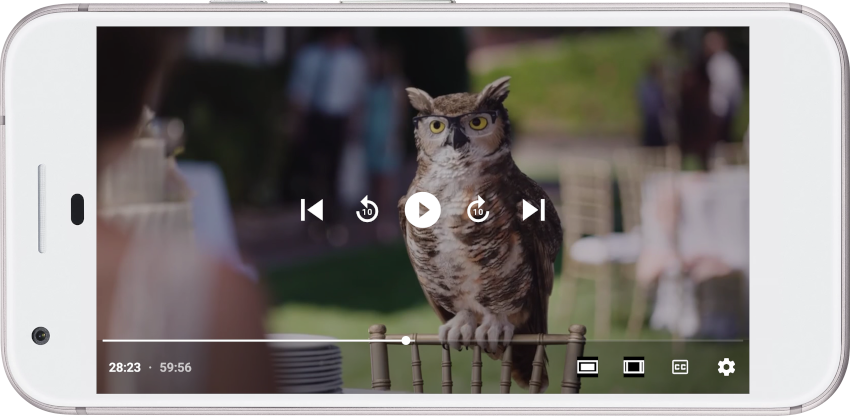
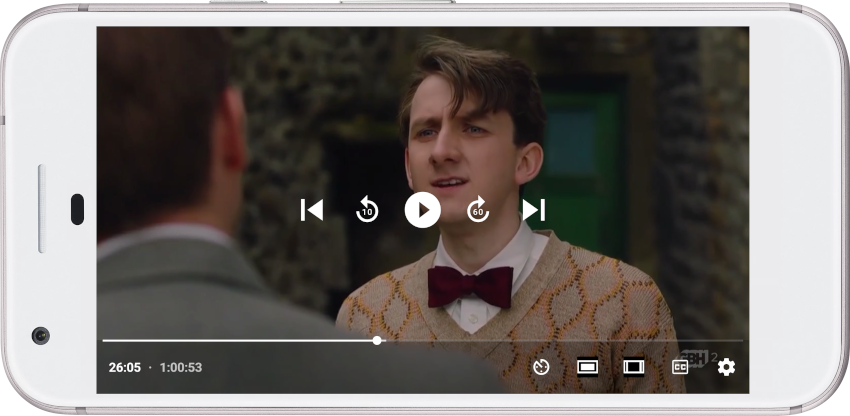
Update documentation.

diff --git a/README.md b/README.md
@@ -39,11 +39,11 @@ Leanfront can be installed from the [Google play store](https://play.google.com/
 ![](ScreenShots/Main_horz.png)
 
 - The main screen shows a scrolling list for the selected recording group or All. One icon is shown per series.
-- Select a group name or All from the menu obtained by tapping the &#8942; icon at the top right hand of the screen to see the [Series Screen](#series-screen).
+- Select a group name or All from the menu obtained by tapping the three dots **&#8942;** icon at the top right hand of the screen to see the [Series Screen](#series-screen).
 
 <details><summary>More details</summary>
 
-- The LiveTV group shows recordings already made from Live TV. This app does not support watching Live TV.
+- The Live TV group shows recordings already made or busy recording from Live TV. You can watch them but you cannot initiate Live TV from the app.
 - If you have Videos in the Video storage group on the MythTV backend, select "Videos" from the menu of recording groups to see the [Videos Screen](#videos-screen)
 - At the bottom you can select the Settings page or the Upcoming page.
 - In landscape mode, tap the menu icon at top left to get to the Settings or Upcoming page.
@@ -86,13 +86,30 @@ This displays upcoming recordings on the MythTV backend. You can use the menu ic
 
 ![](ScreenShots/Settings.png)
 
+In Settings, any value can be restored to its default by tapping it, deleting the contents and selecting OK.
+
+If an amount too high or too low is entered, it is automatically set to the maximum or minimum. If invalid data is entered (e.g. non-numeric value) it is set to the default. 
+
 <details><summary>Notes</summary>
 
 ### MythTV Backend
 
 If your backend has been set up to require user authentication for the service API, you will see user Name and Password prompts. Leanfront needs these to communicate with the backend. These do not show if you do not have a user authentication requirement, so most people will never see these prompts.
 
+### Audio Decode and Video Decode
+
+By default leanfront will use mediacodec hardware decoding for audio and video. If there is no hardware decoder it will switch to software decoding with ffmpeg. You can force it to only use mediacodec or to prefer software decoding.
+
+Software decoding of Video can show bad performance on most low-cost android TV devices. It works well on NVidia Shield. 
+
+### Advanced
+
 - **Maximum Recordings/Videos to load.** Leanfront can handle an unlimited number of recordings and videos. However loading huge numbers of recordings and videos results in excessively long times to load the listing. WIth 60,000 recordings it takes about 3 minutes to load he list from the backend and another 3 to 4 minutes to format the display. To avoid this, the system defaults to loading the only the most recent 10,000. If you are happy with waiting minutes for the screen to refresh, you can increase the value. If you want a quicker refresh you can reduce the value.
+
+The advanced section of settings includes a value that may need to be changed to suit unusual circumstances. Be careful when changing it as you may cause bad things to happen if you use inappropriate values.
+
+- **TS Search Packets.** Increase this if when playing a recording or other TS file, the recording length does not show in the OSD, and you cannot use skips or bookmarks. The default value supplied with exoplayer is 600. I have set a default value of 2600 in leanfront. The value is limited to a range of 600 - 100,000. Increasing the value will cause the start of playback to take longer and use more memory. Also skips forwards and back will take longer. Thus it is best to make this the smallest value that works for you.
+
 </details>
 
 ## Installing leanfront
@@ -126,7 +143,7 @@ The first time you run the app it will prompt you for the MythTV Backend setting
 - Video and Audio playback is supported using mediacodec (hardware) or ffmpeg (software). By default it will use mediacodec if it can, and will switch to ffmpeg if there is a media format not supported by mediacodec. There is a setting where you can change this default and force either mediacodec or ffmpeg.
 - Selection of alternate audio tracks during playback.
 - Playback from slave backends is supported.
-- Playing of Live TV is not supported.
+- Live TV is not supported. You can watch Live TV recordings but you cannot initiate Live TV from the app.
 - The *Master Backend Override* MythTV setting is supported. Playback will be from the master backend even for recordings made on a slave. However the Preview image still uses the slave backend, so it will not show if the slave is down.
 - Note that some phones do not support MPEG-2 playback. In this case MPEG-2 recordings are decoded via software.
 - Supports MythTV commercial breaks and cut list.
@@ -137,17 +154,13 @@ You can see a list of changes in each version by looking at the commit list in g
 
 ## Playback
 
-- Tapping the screen brings up the OSD playback controls.
-- Tapping outside the controls dismisses the OSD controls.
-- You can customize the Next (⏭) and Previous (⏮) buttons to either jump or skip commercials.
-- You can customize the length of jumps and skips.
-- If you are playing a recording that is in progress of being recorded or a LiveTV channel, playback will stop when it has played as much as was available at the start. To continue you will have to stop and resume playback. Currently the mobile version of leanfront does not fully support playback of recordings in progress.
+Recordings in progress are supported and the duration increases as the program is recorded.
 
 ### Bookmarks and Last Play Position
 
-Bookmarks in a recording or video are stored in the MythTV backend. On versions of mythbackend before v32-Pre-658-g48557d32c2 or v31.0-73-g7bf1284867, video bookmarks are not supported.
+Bookmarks in a recording or video are stored in the MythTV backend. On versions of mythbackend before v32-Pre-658-g48557d32c2 or v31.0-73-g7bf1284867, recording bookmarks are supported but video bookmarks are not supported.
 
-Last Play Position is always set upon stopping playback and the default on starting playback is to start at Last Play Position. It can be cleared from the episode or video menu..
+Last Play Position is always set upon stopping playback and the default on starting playback is to start at Last Play Position. It can be cleared from the episode or video menu.
 
 ### Commercial Break and Cut List
 
@@ -165,12 +178,11 @@ In the settings there are adjustments to start and end position that can be set.
 
 There is currently no way to edit a recording or video in leanfront. That can only be done in mythfrontend.
 
-Leanfront also supports skip and cut lists in Videos in the "Videos" storage group. For this you need mythbackend version v33-Pre-925-gf702d54093 or later, and you need to use the new http port (6744).
+Leanfront also supports skip and cut lists in Videos in the "Videos" storage group. For this you need mythbackend version v33-Pre-925-gf702d54093 or later.
 
 ## Live TV
 
-Live TV is not supported.
-
+Live TV is not supported. However you can play Live TV recordings initiated from somewhere else.
 
 ## Playback controls
 
@@ -178,7 +190,9 @@ Live TV is not supported.
 
 The following controls are available when tapping during playback.
 
-In the middle of the screen are icons previous, skip back, pause or play, skip forward, next. The number of seconds to skip can be selected in Settings. Previous and next can be set to jump back and forward or to skip commercials.
+Tapping the screen brings up the OSD playback controls. Tapping outside the controls dismisses the OSD controls.
+
+In the middle of the screen are icons previous, skip back, pause or play, skip forward, next. The number of seconds to skip can be selected in Settings. Previous (⏮) and Next (⏭) can be set to either jump back and forward or to skip commercials.
 
 The progress bar near the bottom can be dragged or tapped to navigate playback to a new position.
 
@@ -190,6 +204,22 @@ To the left of the CC button is the aspect ratio button. This is for use if the 
 
 To the left of the aspect ratio button is the zoom button. By default the picture is shrunk until it all fits in the screen. Tapping zoom changes it so that it expands until the entire screen is filled, keeping the aspect correct, and possibly cutting off parts of the picture along the edges.
 
+To the left the next button (clock face) is used for adjusting audio sync.
+
+### Double tap
+
+Double tap on the play screen while playing or paused is used as follows:
+
+- Left hand side of screen: Skip backwards. The number of seconds skipped is as set in the Settings.
+- Center of screen: Toggle play and pause.
+- Right hand side of screen: Skip forwards. The number of seconds skipped is as set in the Settings.
+
+### Drag across screen
+
+Dragging horizontally across the screen is used to move forwards or backwards in the show. It is exponential, the beginning of a drag gives a small increment, dragging further adds increasingly larger times.
+
+The amount moved and the exponential increase can be changed in Settings.
+
 ## General Operation
 
 ### Status Port
@@ -200,7 +230,7 @@ This is a temporary change, in V34 the port changes back to 6544, with the new f
 
 ### Authentication
 
-In MythTV V35, and authentication option has been added to MythTV services. See https://www.mythtv.org/wiki/Web_Application#API_and_Web_App_Authentication . If you setup Authentication Required, you will have to supply a user id and password to leanfront. Leanfront will automatically add User Name and Password to the Settings list and prompt you to enter them if you have enabled it on the backend. If you have not enabled it, those prompts will not be visible.
+In MythTV V35, an authentication option has been added to MythTV services. See https://www.mythtv.org/wiki/Web_Application#API_and_Web_App_Authentication . If you setup Authentication Required, you will have to supply a user id and password to leanfront. Leanfront will automatically add User Name and Password to the Settings list and prompt you to enter them if you have enabled it on the backend. If you have not enabled it, those prompts will not be visible.
 
 If you expose port 6544 to the internet, you can run leanfront remotely. In this case it is recommended to set a user id and password as described in the wiki article.
 
